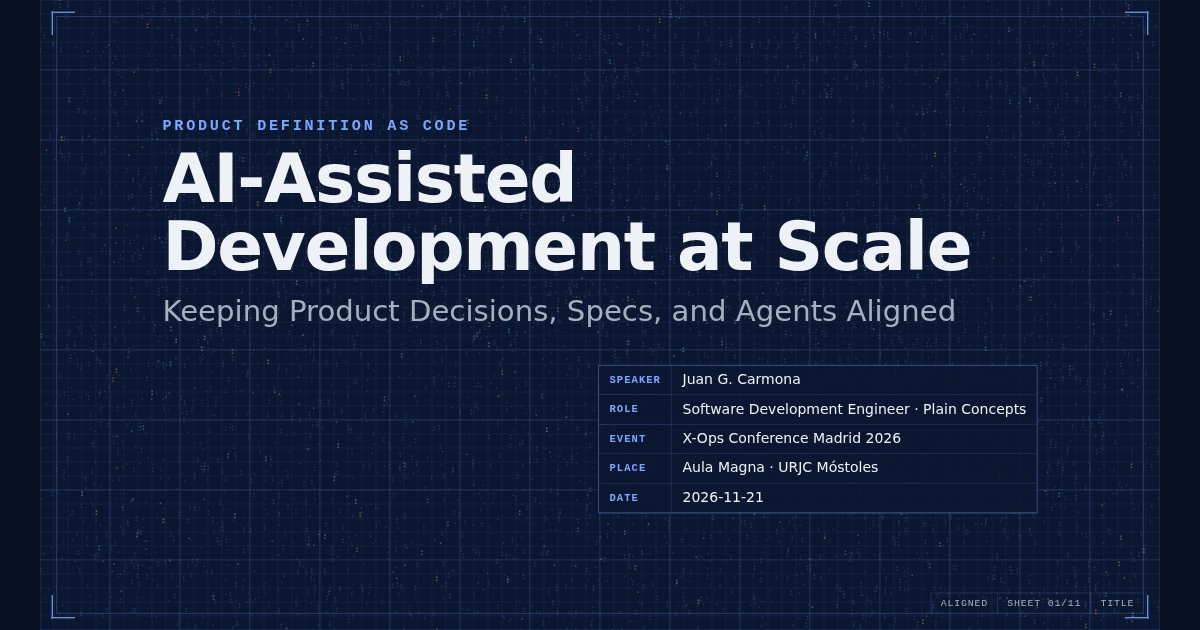
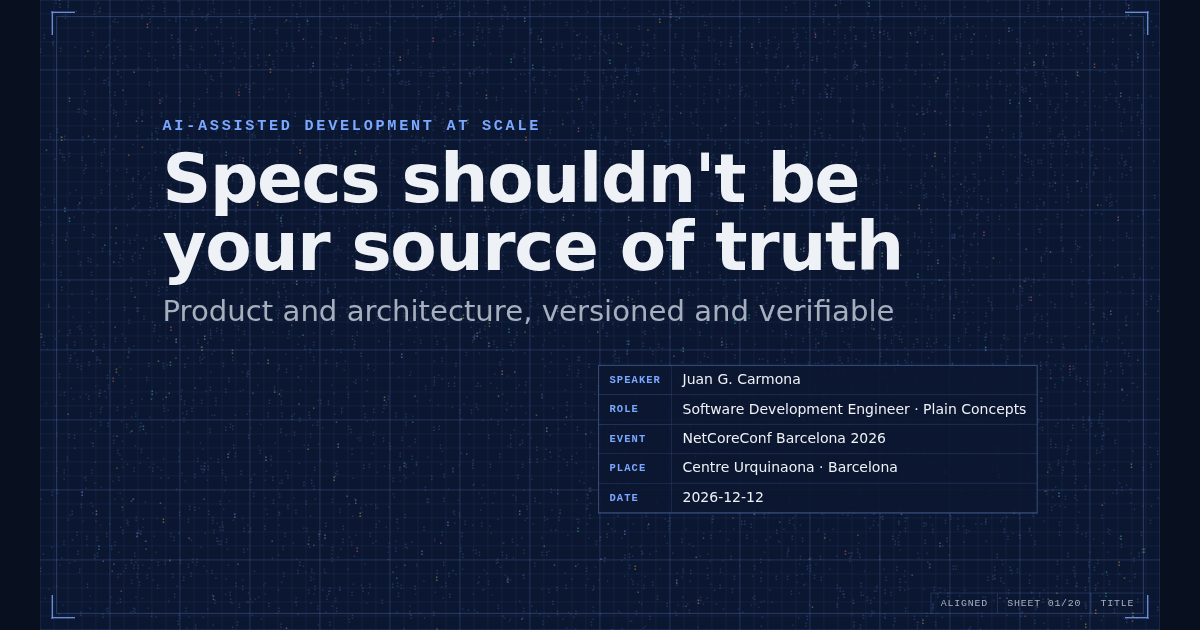
Retarget the cover to NetCoreConf Barcelona 2026 with the new title
X-Ops Madrid 2026 was cancelled. The talk moves to NetCoreConf Barcelona
(12 Dec 2026, Centre Urquinaona) as "Las specs no deberían ser tu fuente
de verdad", with AI-Assisted Development at Scale as the eyebrow.

diff --git a/index.html b/index.html
@@ -4,20 +4,20 @@
     <meta charset="UTF-8" />
     <meta name="viewport" content="width=device-width, initial-scale=1" />
     <meta name="color-scheme" content="dark" />
-    <title>Aligned · AI-Assisted Development at Scale</title>
-    <meta name="description" content="Keeping product decisions, specs and agents aligned with Product Definition as Code. Juan G. Carmona at X-Ops Conference Madrid 2026." />
+    <title>Aligned · Specs shouldn't be your source of truth</title>
+    <meta name="description" content="AI-Assisted Development at Scale: product and architecture, versioned and verifiable, as the source of truth for SDD. Juan G. Carmona at NetCoreConf Barcelona 2026." />
     <link rel="icon" href="./favicon.svg" type="image/svg+xml" />
     <link rel="canonical" href="https://aligned.jgcarmona.com/" />
     <meta property="og:type" content="website" />
     <meta property="og:url" content="https://aligned.jgcarmona.com/" />
-    <meta property="og:title" content="AI-Assisted Development at Scale: Keeping Product Decisions, Specs, and Agents Aligned" />
-    <meta property="og:description" content="Juan G. Carmona · X-Ops Conference Madrid 2026 · Product Definition as Code, citations and drift." />
+    <meta property="og:title" content="Specs shouldn't be your source of truth" />
+    <meta property="og:description" content="AI-Assisted Development at Scale · Juan G. Carmona · NetCoreConf Barcelona 2026 · Product and architecture, versioned and verifiable." />
     <meta property="og:image" content="https://aligned.jgcarmona.com/og.png" />
     <meta property="og:image:width" content="1200" />
     <meta property="og:image:height" content="630" />
     <meta name="twitter:card" content="summary_large_image" />
-    <meta name="twitter:title" content="AI-Assisted Development at Scale" />
-    <meta name="twitter:description" content="Keeping product decisions, specs and agents aligned. X-Ops Conference Madrid 2026." />
+    <meta name="twitter:title" content="Specs shouldn't be your source of truth" />
+    <meta name="twitter:description" content="Product and architecture, versioned and verifiable. NetCoreConf Barcelona 2026." />
     <meta name="twitter:image" content="https://aligned.jgcarmona.com/og.png" />
   </head>
   <body>

diff --git a/src/scenes.tsx b/src/scenes.tsx
@@ -470,17 +470,17 @@ function SpecFile({ t }: { t: T }) {
 
 export const scenes: Scene[] = [
   {
-    id: 'title', act: 0, title: ['AI-Assisted Development at Scale', 'AI-Assisted Development at Scale'], steps: 0, layout: 'center', form: () => 'noise',
+    id: 'title', act: 0, title: ["Specs shouldn't be your source of truth", 'Las specs no deberían ser tu fuente de verdad'], steps: 0, layout: 'center', form: () => 'noise',
     content: t => <div className="title">
-      <p className="eyebrow">Product Definition as Code</p>
-      <h1>AI-Assisted Development at Scale</h1>
-      <p className="subtitle">Keeping Product Decisions, Specs, and Agents Aligned</p>
+      <p className="eyebrow">AI-Assisted Development at Scale</p>
+      <h1>{t("Specs shouldn't be", 'Las specs no deberían ser')}<br />{t('your source of truth', 'tu fuente de verdad')}</h1>
+      <p className="subtitle">{t('Product and architecture, versioned and verifiable', 'Producto y arquitectura, versionados y verificables')}</p>
       <dl className="title-block">
         <div><dt>{t('Speaker', 'Ponente')}</dt><dd>Juan G. Carmona</dd></div>
         <div><dt>{t('Role', 'Puesto')}</dt><dd>Software Development Engineer · Plain Concepts</dd></div>
-        <div><dt>{t('Event', 'Evento')}</dt><dd>X-Ops Conference Madrid 2026</dd></div>
-        <div><dt>{t('Place', 'Lugar')}</dt><dd>Aula Magna · URJC Móstoles</dd></div>
-        <div><dt>{t('Date', 'Fecha')}</dt><dd>2026-11-21</dd></div>
+        <div><dt>{t('Event', 'Evento')}</dt><dd>NetCoreConf Barcelona 2026</dd></div>
+        <div><dt>{t('Place', 'Lugar')}</dt><dd>Centre Urquinaona · Barcelona</dd></div>
+        <div><dt>{t('Date', 'Fecha')}</dt><dd>2026-12-12</dd></div>
       </dl>
     </div>,
   },

diff --git a/src/styles.css b/src/styles.css
@@ -453,7 +453,7 @@ blockquote { margin: 0; font-size: 46px; line-height: 1.2; font-weight: 600; bor
 /* Title and closing */
 .title { width: 1500px; display: grid; gap: 18px; }
 .eyebrow { margin: 0; font: 600 26px var(--mono); letter-spacing: .18em; text-transform: uppercase; color: var(--accent); }
-.title h1 { margin: 0; font-size: 116px; line-height: 1; letter-spacing: -.02em; }
+.title h1 { margin: 0; font-size: 104px; line-height: 1.04; letter-spacing: -.02em; white-space: nowrap; }
 .subtitle { margin: 0 0 40px; font-size: 50px; color: var(--muted); font-weight: 500; }
 .title-block { margin: 0; justify-self: end; display: grid; grid-template-columns: auto auto; border: 1.5px solid rgb(122 167 255 / 50%); background: rgb(11 22 48 / 88%); font-size: 24px; }
 .title-block div { display: contents; }

diff --git a/README.md b/README.md
@@ -1,6 +1,8 @@
 # Aligned
 
-*AI-Assisted Development at Scale: Keeping Product Decisions, Specs, and Agents Aligned.* Talk by Juan G. Carmona, X-Ops Conference Madrid 2026, Aula Magna, Universidad Rey Juan Carlos, Saturday 21 November 2026. 50-minute slot: about 40 minutes of talk, then questions.
+*Specs shouldn't be your source of truth* (*Las specs no deberían ser tu fuente de verdad*). AI-Assisted Development at Scale. Talk by Juan G. Carmona, NetCoreConf Barcelona 2026, Centre Urquinaona, Barcelona, Saturday 12 December 2026. Slot length por confirmar con Juan; the deck runs about 40 minutes.
+
+First prepared for X-Ops Conference Madrid 2026 (21 November 2026), which was cancelled; that version is tagged `xops-madrid-2026`.
 
 Published at **https://aligned.jgcarmona.com**.
 
@@ -62,7 +64,7 @@ After `npm run build`:
 npm run pdf
 ```
 
-writes `aligned-xops-madrid-2026.pdf`, one 1920×1080 page per scene at its final step (from `?print`).
+writes `aligned-netcoreconf-barcelona-2026.pdf`, one 1920×1080 page per scene at its final step (from `?print`).
 
 ```bash
 npm run shots
@@ -105,4 +107,4 @@ Custom domain `aligned.jgcarmona.com` is attached to the `talk-aligned` Pages pr
 
 ## Editions
 
-Each edition gets a git tag: `xops-madrid-2026`.
+Each edition gets a git tag: `xops-madrid-2026`, then `netcoreconf-barcelona-2026`.

diff --git a/content/outline.md b/content/outline.md
@@ -12,7 +12,7 @@ Eighteen scenes, 40 minutes. Each has a stable ID (its URL is `/#/<id>`), what i
 ---
 
 ### 1. `title` · 1 min
-- **On screen:** "AI-Assisted Development at Scale" / "Keeping Product Decisions, Specs, and Agents Aligned" · Juan G. Carmona · Software Development Engineer, Plain Concepts · X-Ops Conference Madrid 2026 · Aula Magna, URJC · 21 Nov 2026.
+- **On screen:** eyebrow "AI-Assisted Development at Scale"; title "Specs shouldn't be / your source of truth" / "Las specs no deberían ser / tu fuente de verdad" (Spanish title from the NetCoreConf Barcelona submission; English **[proposal]**); subtitle "Product and architecture, versioned and verifiable" / "Producto y arquitectura, versionados y verificables" (**[proposal]**, from the submission abstract, chosen by Juan 2026-11-10) · Juan G. Carmona · Software Development Engineer, Plain Concepts · NetCoreConf Barcelona 2026 · Centre Urquinaona, Barcelona · 12 Dec 2026 (Sessionize, read 2026-11-10).
 - **Motion:** Glyph noise drifting on the blueprint grid; dimension lines frame the title like a drawing sheet with a title block.
 - **Sources:** title ABS; role ABS speaker line ("Software Development Engineer at Plain Concepts"); place and date JUAN.
 

diff --git a/content/thesis.md b/content/thesis.md
@@ -1,8 +1,9 @@
 # Thesis
 
-**Talk:** AI-Assisted Development at Scale: Keeping Product Decisions, Specs, and Agents Aligned
-**Event:** X-Ops Conference Madrid 2026 · Aula Magna, Universidad Rey Juan Carlos (Móstoles) · Saturday 21 November 2026
-**Slot:** 50 minutes: about 40 of talk, the rest for questions
+**Talk:** Las specs no deberían ser tu fuente de verdad (AI-Assisted Development at Scale)
+**Event:** NetCoreConf Barcelona 2026 · Centre Urquinaona, Plaça Urquinaona 10, Barcelona · Saturday 12 December 2026 (submitted; acceptance por confirmar con Juan)
+**Slot:** por confirmar con Juan; the deck runs about 40 minutes
+**Before:** prepared for X-Ops Conference Madrid 2026 (21 November 2026), cancelled by the organisers
 **Speaker:** Juan G. Carmona, Software Development Engineer at Plain Concepts
 **Language:** English
 
